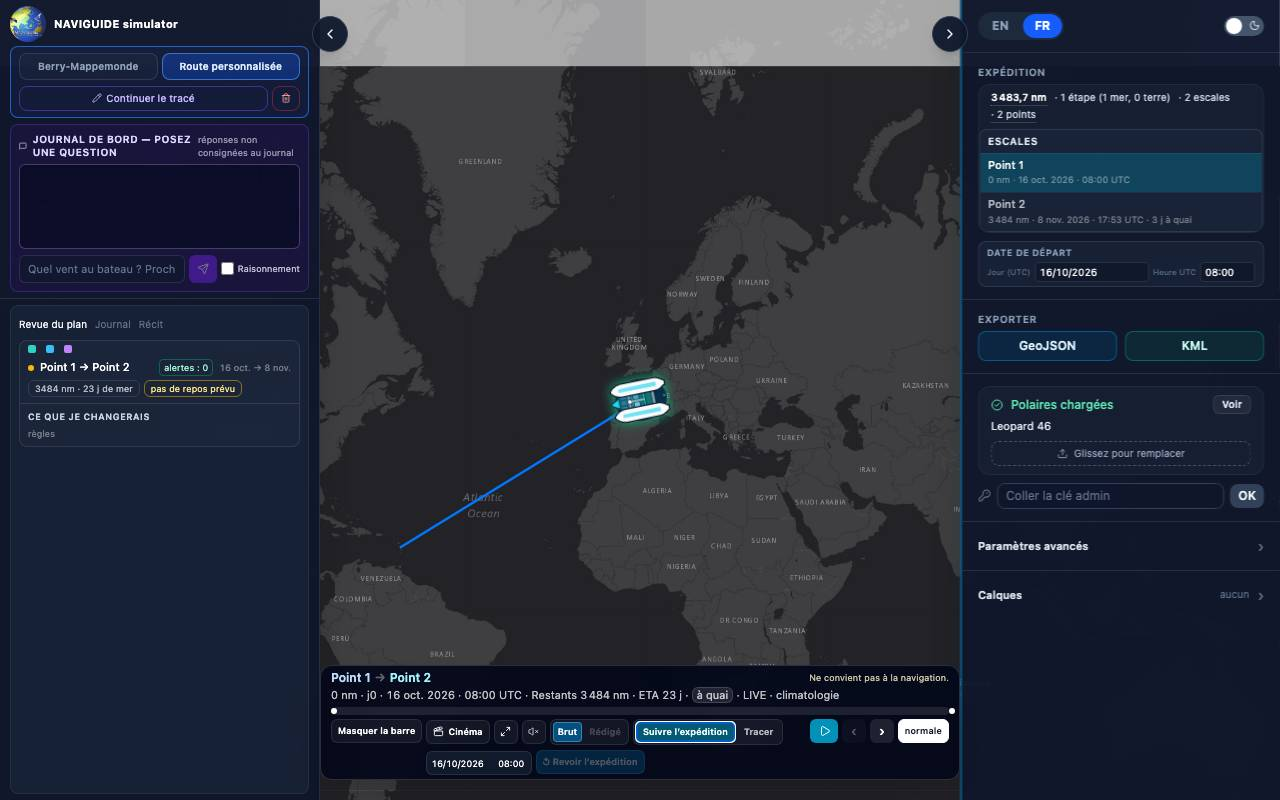
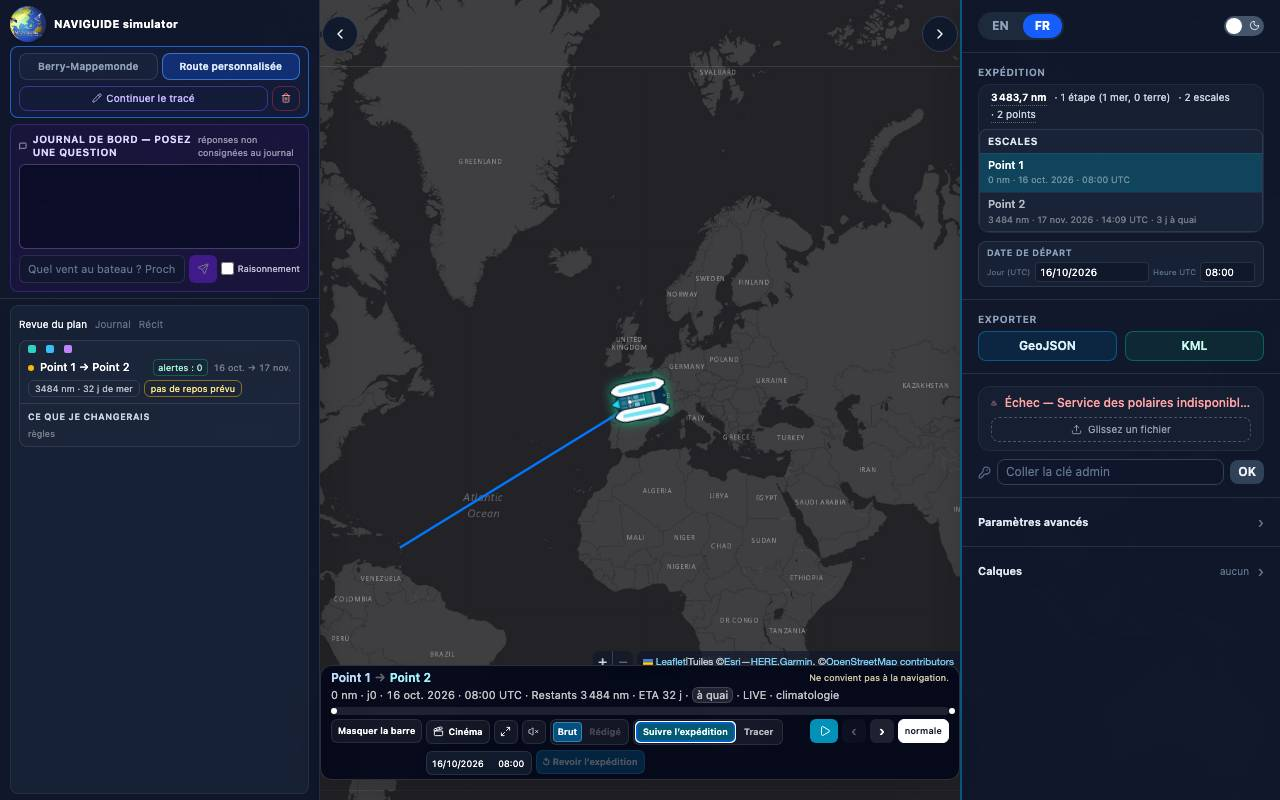
fix(simulator): le journal reste listable si RC2 vole l'onglet (lot DM3, CI 3/6)
La liste ne se démonte plus hors onglet (hidden) : R9b peut encore compter
les lignes sans qu'on touche à son spec. Aucune surface visible retirée.

diff --git a/naviguide-simulator/src/components/IciMaintenant.jsx b/naviguide-simulator/src/components/IciMaintenant.jsx
@@ -312,13 +312,17 @@ export function IciMaintenant({
         </div>
       ) : null}
 
-      {view === "journal" ? (
-        <div data-testid="ici-journal-slot" className="mt-1 min-h-0 overflow-auto">
-          {Array.isArray(journalEntries) ? (
-            <JournalList entries={journalEntries} onSeek={onSeek} lang={lang} />
-          ) : journal}
-        </div>
-      ) : null}
+      {/* Liste toujours au DOM (hidden hors onglet) : RC2 peut voler
+          Maintenant sans démonter les lignes — R9b compte ici-journal-entry. */}
+      <div
+        data-testid="ici-journal-slot"
+        hidden={view !== "journal"}
+        className="mt-1 min-h-0 overflow-auto"
+      >
+        {Array.isArray(journalEntries) ? (
+          <JournalList entries={journalEntries} onSeek={onSeek} lang={lang} />
+        ) : journal}
+      </div>
 
       {view === "review" ? (
         <div data-testid="ici-review-slot" className="mt-1 min-h-0 overflow-auto">

diff --git a/naviguide-simulator/src/components/IciMaintenant.test.js b/naviguide-simulator/src/components/IciMaintenant.test.js
@@ -144,6 +144,7 @@ describe("IciMaintenant — lot R9b : journal chronologique, clic → onSeek(t)"
     assert.match(lines[1], /ZEE du Maroc/);
     assert.match(src, /data-testid="ici-journal-entry"/);
     assert.match(src, /data-testid="ici-journal-list"/);
+    assert.match(src, /hidden=\{view !== "journal"\}/);
     assert.match(src, /sortJournalEntries\(entries\)/);
     assert.match(src, /formatJournalLine\(entry, lang\)/);
     assert.doesNotMatch(src, /journalHint|Le journal commence|cliquez|aide/i);
